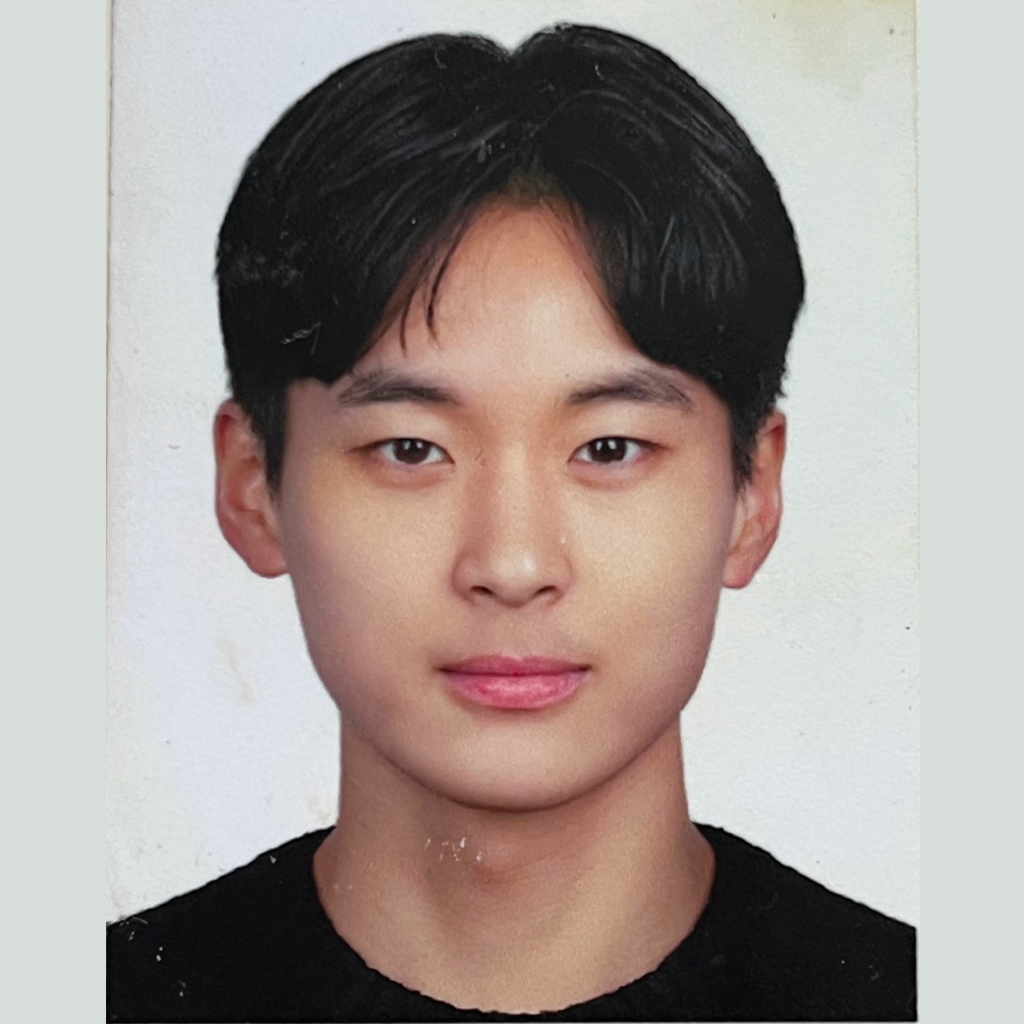
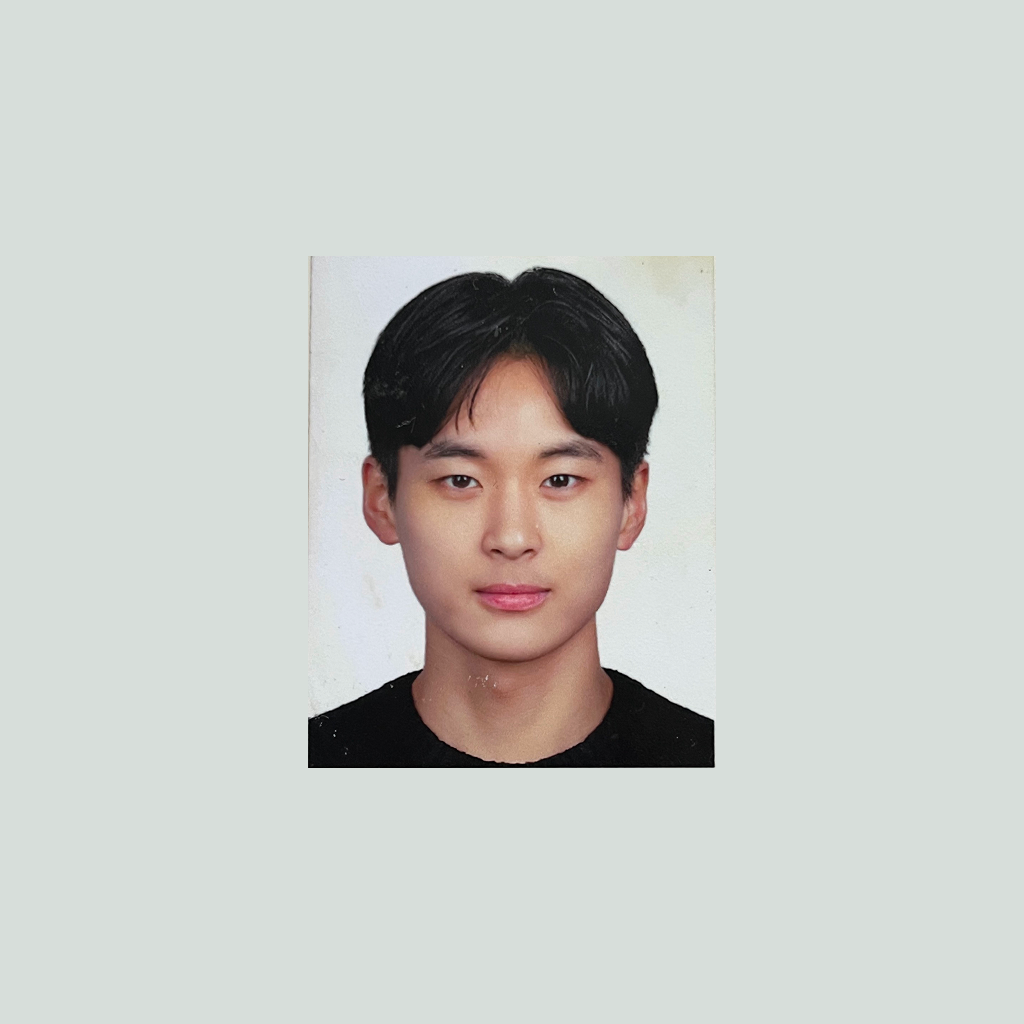
Fix: Edit images size

diff --git a/themes/github.com/wowchemy/wowchemy-hugo-themes/modules/wowchemy/v5/assets/scss/wowchemy/widgets/_about.scss b/themes/github.com/wowchemy/wowchemy-hugo-themes/modules/wowchemy/v5/assets/scss/wowchemy/widgets/_about.scss
@@ -3,7 +3,6 @@
  **************************************************/
 
 .wg-about {
-  border-top: 135px solid #161b22; 
   @media screen and (min-width: 768px) {
     height: 100vh;
     display: flex;
@@ -37,7 +36,7 @@
 
 .avatar {
   width: 270px;
-  height: 405px;
+  height: 270px;
   margin: 0 auto;
   object-fit: cover;
 }
@@ -45,13 +44,13 @@
 // Use smaller avatar size in About widget on small devices.
 @include media-breakpoint-down(sm) {
   .wg-about .avatar {
-    width: 270px;
-    height: 405px;
+    width: 200px;
+    height: 200px;
   }
 }
 
 .avatar-circle {
-  border-radius: 8%;
+  border-radius: 16%;
 }
 
 .avatar-square {

diff --git a/content/group/Junhyeong/index.md b/content/group/Junhyeong/index.md
@@ -4,7 +4,7 @@ publishDate: 2025-09-01
 external_link: ""
 image:
   caption: Junhyeong Yeo
-  focal_point: Fit
+  focal_point: Center
 slides: example
 summary:
 tags:

diff --git a/content/group/Kyeongmin/index.md b/content/group/Kyeongmin/index.md
@@ -4,7 +4,7 @@ publishDate: 2025-09-01
 external_link: ""
 image:
   caption: Kyeongmin Ko
-  focal_point: Fit
+  focal_point: Center
 slides: example
 summary:
 tags:

diff --git a/content/group/Jeongun/index.md b/content/group/Jeongun/index.md
@@ -4,7 +4,7 @@ publishDate: 2025-09-01
 external_link: ""
 image:
   caption: Jeongun Lee
-  focal_point: Fit
+  focal_point: Center
 slides: example
 summary:
 tags:

diff --git a/content/group/Seungjun/index.md b/content/group/Seungjun/index.md
@@ -4,7 +4,7 @@ publishDate: 2025-09-01
 external_link: ""
 image:
   caption: Seungjun Na
-  focal_point: Fit
+  focal_point: Center
 slides: example
 summary:
 tags:

diff --git a/content/group/Taeyoon/index.md b/content/group/Taeyoon/index.md
@@ -4,7 +4,7 @@ publishDate: 2025-09-01
 external_link: ""
 image:
   caption: Taeyoon Kim
-  focal_point: Fit
+  focal_point: Center
 slides: example
 summary:
 tags:

diff --git a/content/group/Wonjae/index.md b/content/group/Wonjae/index.md
@@ -4,7 +4,7 @@ publishDate: 2025-09-01
 external_link: ""
 image:
   caption: Wonjae Choi
-  focal_point: Fit
+  focal_point: Center
 slides: example
 summary:
 tags:

diff --git a/content/group/Sanggu/index.md b/content/group/Sanggu/index.md
@@ -4,7 +4,7 @@ publishDate: 2025-09-01
 external_link: ""
 image:
   caption: Sanggu Yun
-  focal_point: Fit
+  focal_point: Center
 slides: example
 summary:
 tags:

diff --git a/content/group/Seonju/index.md b/content/group/Seonju/index.md
@@ -4,7 +4,7 @@ publishDate: 2025-09-01
 external_link: ""
 image:
   caption: Seonju Kim
-  focal_point: Fit
+  focal_point: Center
 slides: example
 summary:
 tags:
